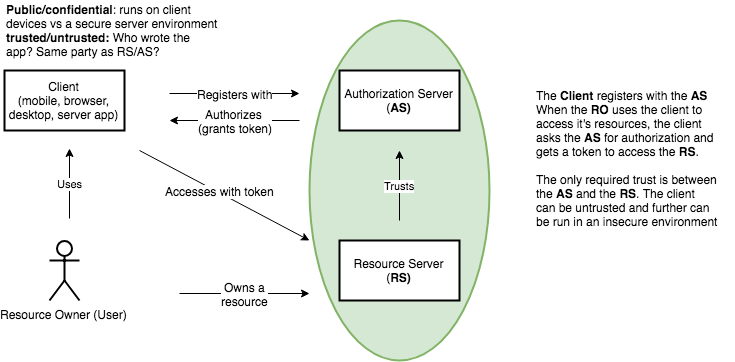
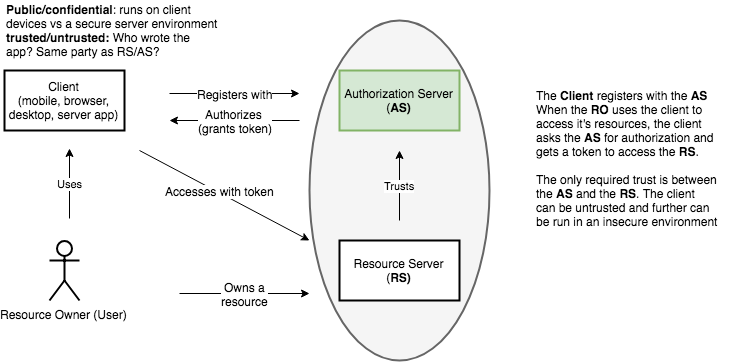
update

Changed region(s): [[0.419, 0.0304, 0.6884, 1.0]]

diff --git a/README.md b/README.md
@@ -4,6 +4,8 @@
 
 The business development team has decided that the IdP market is ripe for disruption! Our task is to deliver an OpenID Connect Provider PoC that the dev and itops teams can run with and evolve.
 
+It is assumed that open source options such as Keycloak have been evaluated and discarded, and that we are designing and implementing a system from the ground up.
+
 ## Methodology
 
 A desirable architecture allows for guided evolution over multiple dimensions (application scalability, organizational scalability, agility, business domain alignment, etc.).
@@ -24,8 +26,8 @@ Observability is a key enabler to allow metrics to drive the evolution of the de
 
 * *Compliance* : SOC2 / HIPAA / GDPR - audit, security, privacy, right to erasure, etc. It is assumed that the business would want to partake in verticals requiring compliance
 * *Team Assumptions* : 
-  - ITOPS : proficient deploying and administering cloud services (WAF, ALB, ...), docker, k8s, service mesh, CI/CD, DB management, Elastic Stack, Kafka
-  - DEV : The only assumption to grok the reference implementation is proficiency with Node.js 8.x. Java/Python/Go teams are free to implement backend microservices in their language of choice.
+  - ITOPS : proficient deploying and administering cloud services (WAF, ALB, ...), docker, k8s, service mesh, CI/CD, DB management, Elastic Stack, Kafka, potentially Cassandra
+  - DEV : The only assumption to grok the reference implementation is proficiency with Node.js 8.x. Ployglot Java/Python/Go teams are free to implement individual backend microservices in their language of choice, assuming of course those technologies are whitelisted by the company.
 
 ## The Domain
 

diff --git a/docs/design.md b/docs/design.md
@@ -1,6 +1,15 @@
 # PoC Design
 
+RFC Protocols are already established, and call for a synchronous HTTP REST req/resp data plane.
+The control plane (for administrative configuration of clients, ) allows for a more interesting asynchronous event sourced design options.
+
 ## System View
+
+The diagram below depicts the major actors in the OIDC ecosystem.
+
+[OIDC Overview](./images/oauth2_overview.png)
+
+It is within the purview of this effort to design and implement the Authorization Server (shaded in green), and support the use of externally written clients. Time permitting, an admin app will be written to allow for customer administration of their clients.
 
 ## Container View
 
